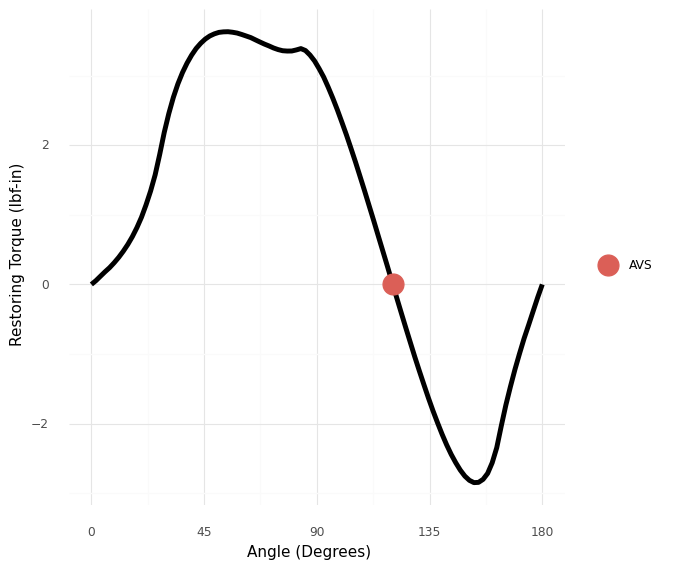
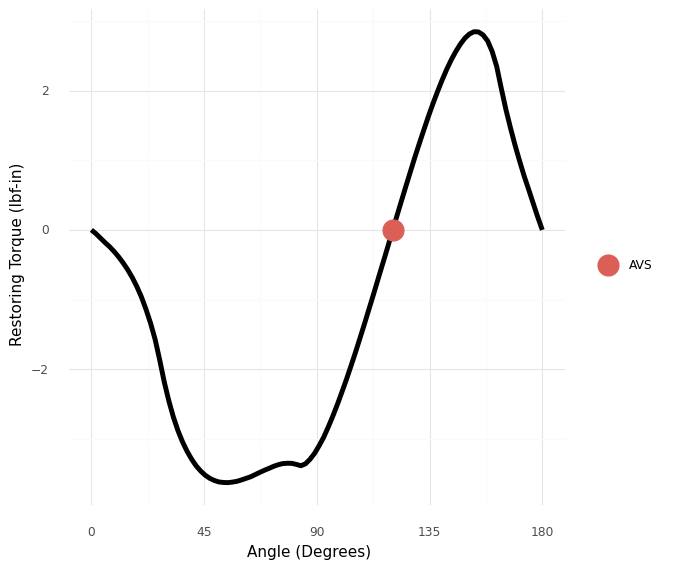
fix moment curve sign

diff --git a/papers/zachary_delrosario/paper.rst b/papers/zachary_delrosario/paper.rst
@@ -268,33 +268,48 @@ TODO introduce the basics of boat hull stability.
 
    Schematic boat hull rotated to :math:`22.5^{\circ}`. The forces due to gravity and buoyancy act at the center of mass (COM) and center of buoyancy (COB), respectively. Note that this hull is upright stable, as the couple will rotate the boat to upright. :label:`boat-stable`
 
+As a boat is rotated away from its upright orientation, its center of buoyancy (COB) will tend to migrate. If the boat is in vertical equilibrium, its buoyant force will be equal in magnitude to its weight. A stable boat is a hull whose COB migrates in such a way that a restoring torque is generated (Fig. :ref:`boat-stable`). However, this upright stability is not guaranteed; Figure :ref:`boat-unstable` illustrates a boat design that does not provide a restoring torque near its upright angle. An upright-unstable boat will tend to capsize spontaneously.
+
 .. figure:: hull-schematic-unstable.png
    :scale: 40%
    :figclass: bht
 
    Schematic boat hull rotated to :math:`22.5^{\circ}`. Gravity and buoyancy are annotated as in Figure :ref:`boat-stable`. Note that this hull is upright unstable, as the couple will rotate the boat away from upright. :label:`boat-unstable`
 
+Naval engineers analyze the stability of a boat design by constructing a *moment curve*, such as the one pictured in Figure :ref:`moment-curve`. This curve depicts the net moment due to buoyancy at various angles, assuming the vessel is in vertical equilibrium. From this figure we can see that the design is upright-stable, as it possesses a negative slope at upright :math:`\theta=0^{\circ}`. Note that a boat may not have an unlimited range of stability; note that Figure :ref:`moment-curve` exhibits an *angle of vanishing stability* (AVS) beyond which the boat does not recover to upright.
+
 .. figure:: moment-curve.png
    :scale: 40%
    :figclass: bht
 
-   Restoring torque of a boat hull as it is rotated through :math:`180^{\circ}`. A positive slope at upright :math:`\theta=0^{\circ}` is required for upright stability. Stability is lost at the *angle of vanishing stability* (AVS). :label:`boat-unstable`
+   Restoring torque of a boat hull as it is rotated through :math:`180^{\circ}`. A negative slope at upright :math:`\theta=0^{\circ}` is required for upright stability. Stability is lost at the *angle of vanishing stability* (AVS). :label:`moment-curve`
+
+The classical way to build intuition about boat stability is via mathematical derivations :cite:`larsson2000yacht`. In the following section we present an alternative way to build intuition through exploratory model analysis.
 
 EMA for Insight Mining
 ----------------------
 
-TODO Describe the generation of the sample
+Generation and post-processing of the moment curve are implemented in the grama model :code:`md_performance` [#]_. This model parameterizes a 2d boat hull via its height :code:`H`, width :code:`W`, shape of corner :code:`n`, the vertical height of the center of mass :code:`f_com` (as a fraction of the height), and the *displacement ratio* :code:`d`---the ratio of the boat's mass to maximum water mass displaced. Note that a boat with :code:`d > 1` is incapable of flotation. The model :code:`md_performance` returns :code:`stability = -dMdtheta_0`; the negative of the moment curve slope at upright, as well as the :code:`mass` and AVS :code:`angle`. A positive value of :code:`stability` indicates upright stability, while a larger value of :code:`angle` indicates a greater resistance to tipping.
+
+The EMA process begins by generating data from the model; however, the generation of a moment curve is a nontrivial calculation. One should exercise care in choosing an initial sample of designs to analyze. The statistical problem of selecting inputs values for a computer model is called the design of computer experiments :cite:`sacks1989doe`: The grama verb `gr.tf_sp()` implements the support points algorithm :cite:`mak2018support` to reduce a large dataset of target points to a smaller (but representative) sample before evaluating the model. The following code generates a sample of input design values via :code:`gr.ev_sample()` with the :code:`skip=True` argument, uses :code:`gr.tf_sp()` to "compact" this large sample, then evaluates the performance model at the smaller sample.
+
+.. [#] The analysis reported here is available as a jupyter notebook at TODO URL.
 
 .. code-block:: python
 
-		df_doe = (
+		df_boats = (
 		    md_performance
-		    >> gr.ev_sample(n=5e3, df_det="nom", seed=101, skip=True)
+		    >> gr.ev_sample(
+		        n=5e3,
+			df_det="nom",
+			seed=101,
+			skip=True,
+		    )
 		    >> gr.tf_sp(n=1000, seed=101)
-		    >> gr.ev_md(md_performance)
+		    >> gr.tf_md(md=md_performance)
 		)
 
-TODO EDA of sample
+With an initial sample generated, we can perform an exploratory analysis relating the inputs and outputs. The verb :code:`gr.tf_iocorr()` computes correlations between every pair of input variables :code:`var` and outputs :code:`out`. The routine also attaches metadata, enabling an autoplot as a tileplot of the correlation values.
 
 .. code-block:: python
 
